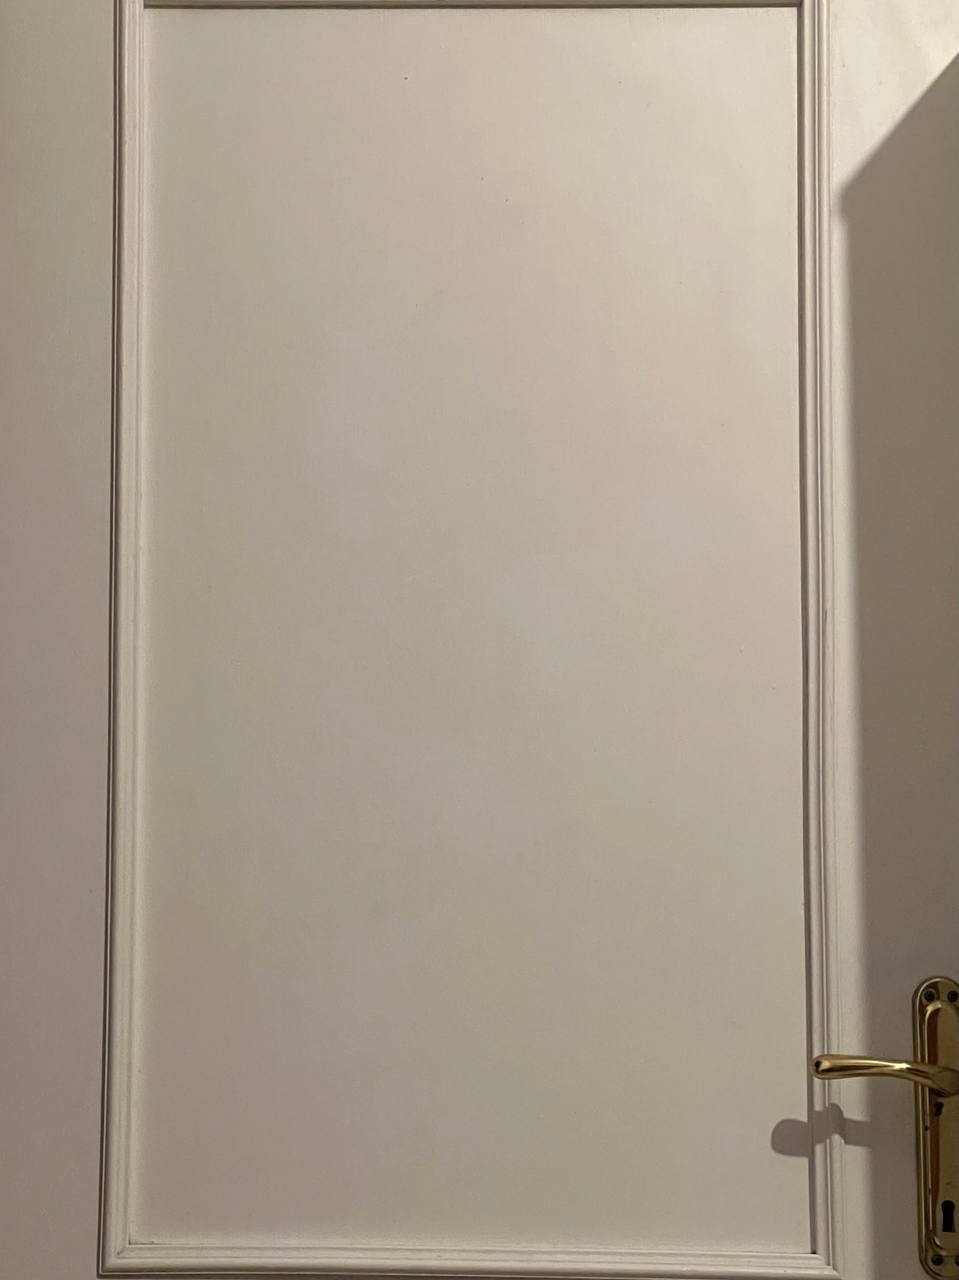
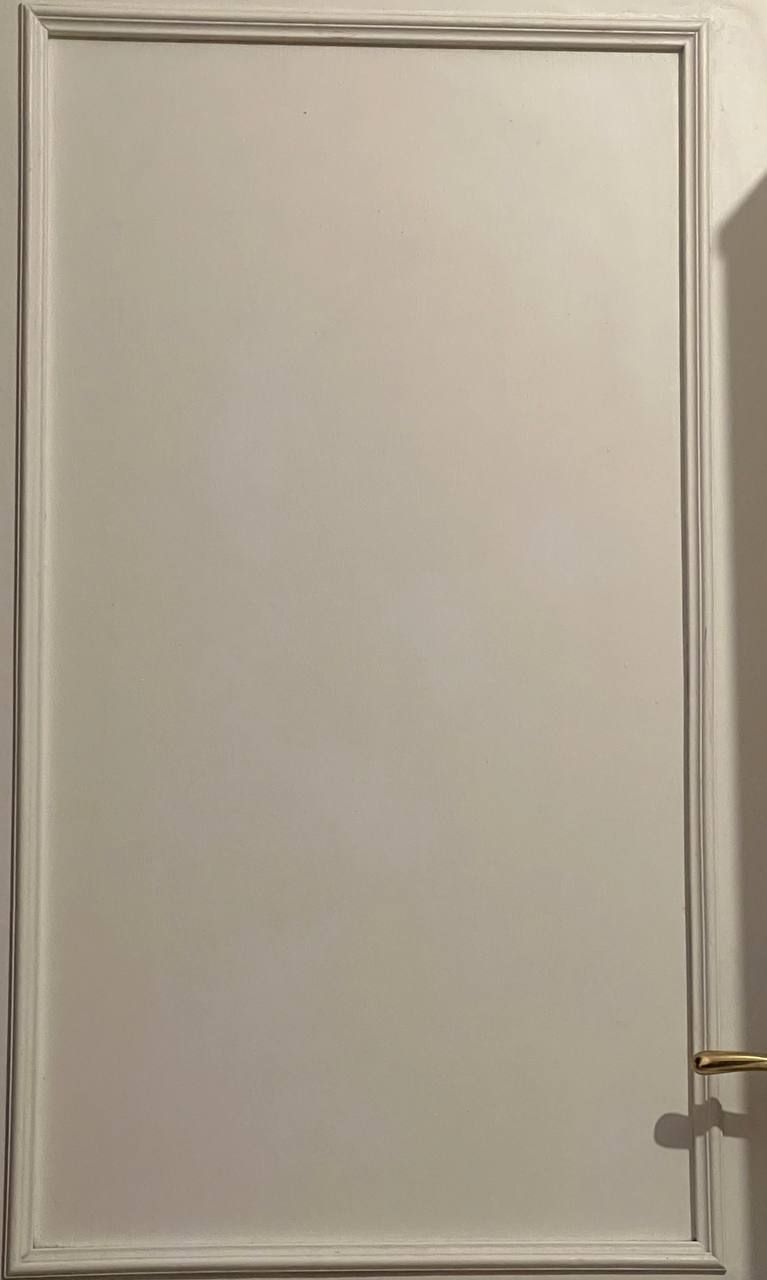
gm

Changed region(s): [[0.0, 0.0, 1.0, 1.0]]

diff --git a/style.css b/style.css
@@ -102,24 +102,21 @@ button:hover {
     display: flex;
     justify-content: center;
     align-items: center;
-    height: calc(95vw * 4 / 3); /* Calculate height based on the aspect ratio */
     width: 95vw; /* 95% of the viewport width */
-    max-height: 85vh; /* Set maximum height to 85% of the viewport height */
+    height: calc(95vw * 5 / 3); /* Height is calculated based on width and 3:5 aspect ratio */
     margin: 0 auto; /* Center the container horizontally */
     border: 1px solid #bdbcbc;
-    padding: 0;
-    border-radius: 3px;
+    position: relative;
     overflow: hidden; /* Ensure the image does not overflow the container */
-    position: relative; /* Add relative positioning */
 }
 
 #imagefirst {
-    width: 100%; /* Set width to 100% of the container */
-    height: auto; /* Set height to auto to maintain aspect ratio */
-    position: absolute; /* Position the image absolutely */
-    top: 50%; /* Align the top of the image to the middle of the container */
-    left: 50%; /* Align the left of the image to the middle of the container */
-    transform: translate(-50%, -50%); /* Translate the image back by 50% of its own width and height */
+    position: absolute;
+    top: 0;
+    left: 0;
+    width: 100%;
+    height: 100%;
+    object-fit: cover; /* Ensure the image covers the entire container */
 }
 
 
@@ -141,7 +138,7 @@ button:hover {
 
 }
 
-/* ________HUI ZNAET_____________ */
+/* ________HUI ZNAET___________ */
 
 .image-frame {
     max-width: 90%;
@@ -168,3 +165,31 @@ button:hover {
     width: 100%;
     height: auto;
 }
+
+
+/*
+3/4
+#preview {
+    display: flex;
+    justify-content: center;
+    align-items: center;
+    height: calc(95vw * 4 / 3);
+    width: 95vw;
+    max-height: 85vh;
+    margin: 0 auto;
+    border: 1px solid #bdbcbc;
+    padding: 0;
+    border-radius: 3px;
+    overflow: hidden;
+    position: relative;
+}
+
+#imagefirst {
+    width: 100%;
+    height: auto;
+    position: absolute;
+    top: 50%;
+    left: 50%;
+    transform: translate(-50%, -50%);
+} 
+*/
